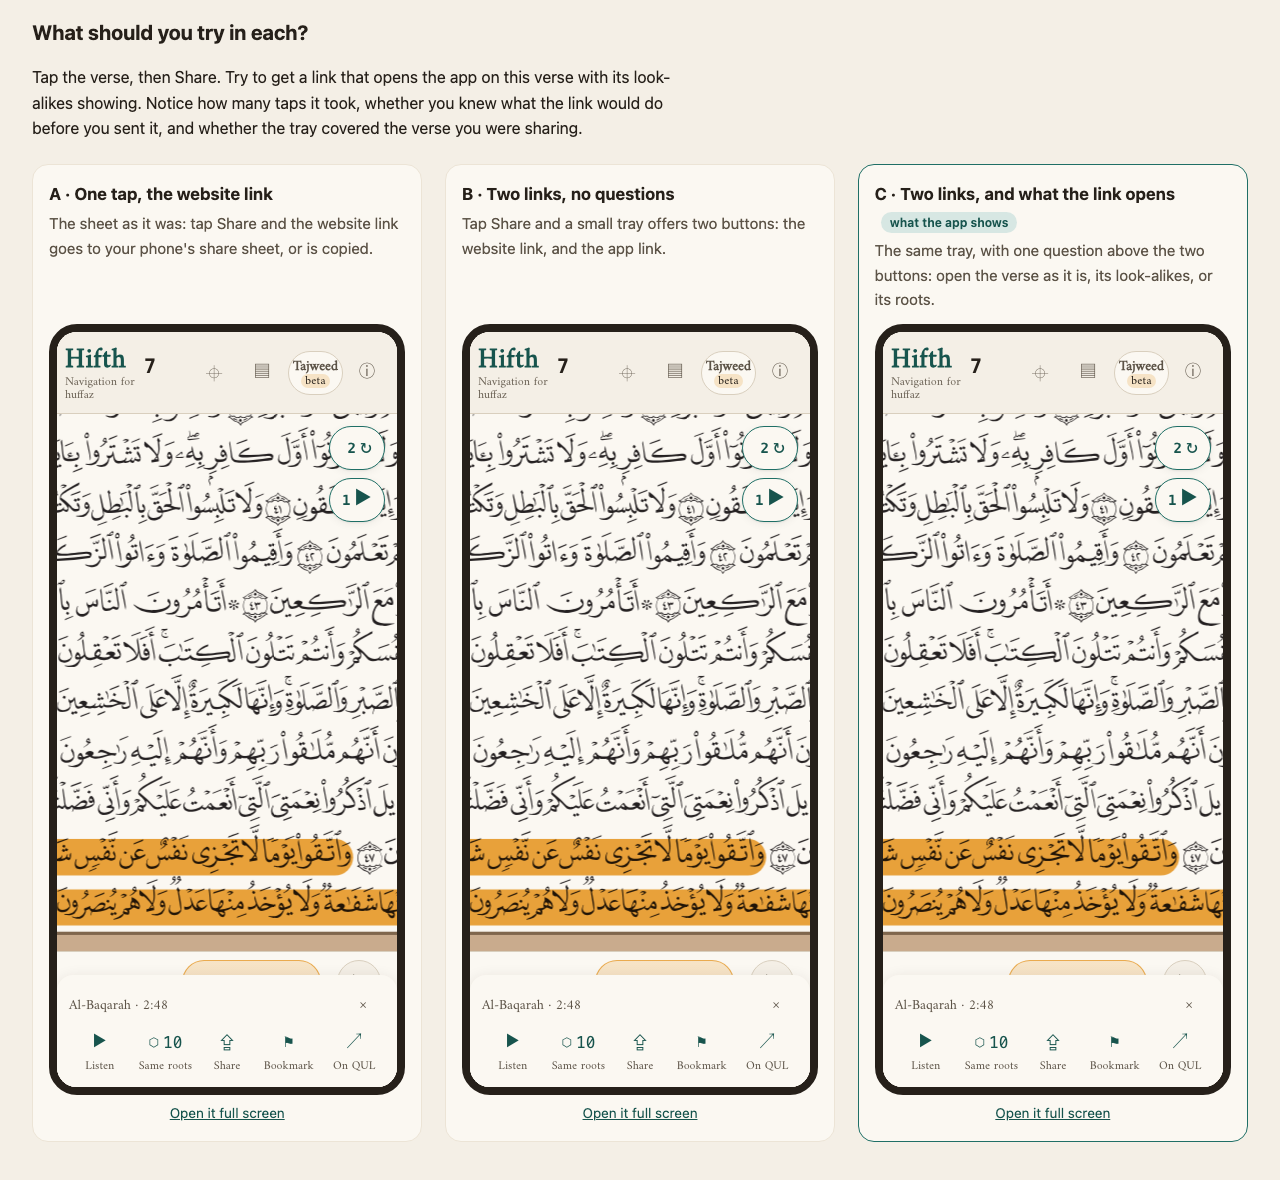
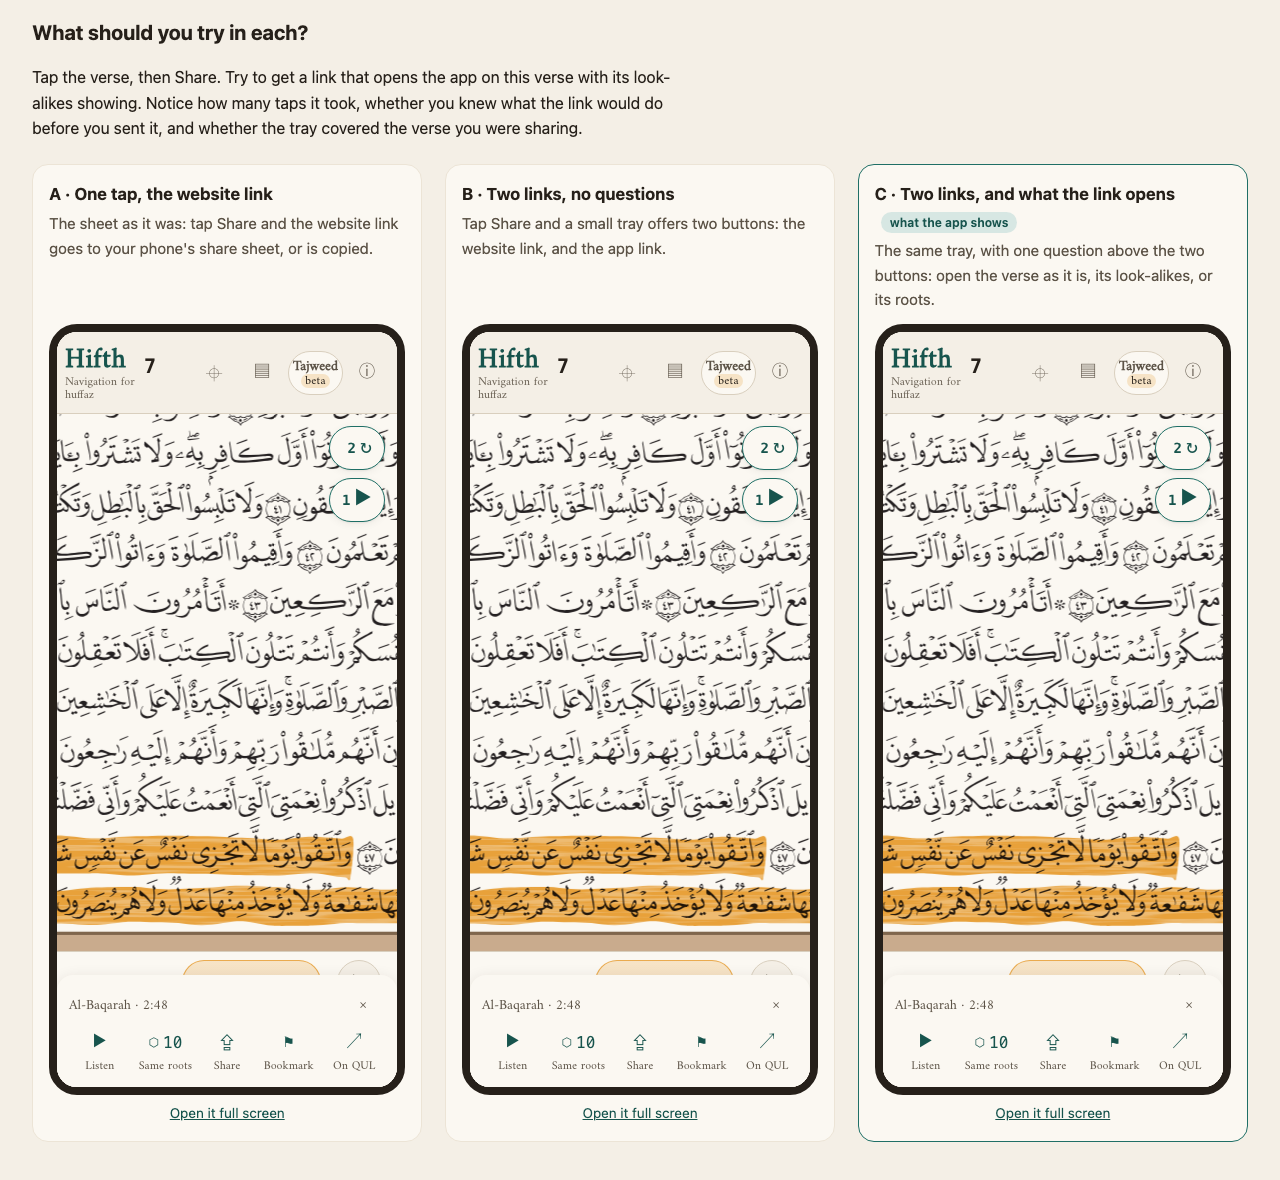
Refuse pictures of a settled decision left in the waiting note's folder; answer reviews in the right vault
When a decision is settled it drops out of the waiting note, but its pictures
stayed checked in and served until the camera ran again. The backlog check now
names any picture of a decision that is no longer open, and any file the
picture list does not name. The settled highlighter's six are removed.

Review replies were addressed to a vault named "docs", a name another project's
vault also has, so they opened the wrong one and never landed. The shortcut and
the hook's hint now use the hifth vault's own ID.

Claude-Session: https://claude.ai/code/session_0155jaTo36N9CMBWm2n5YeZ9

Changed region(s): [[0.6875, 0.7017, 0.9688, 0.7932], [0.0312, 0.7017, 0.3125, 0.7932], [0.375, 0.7017, 0.625, 0.7932]]

diff --git a/docs/backlog.md b/docs/backlog.md
@@ -1,5 +1,5 @@
 <!-- generated by scripts/build-tasks-doc.mjs — do not edit; run `make tasks-doc` -->
-<!-- tasks-hash: 518ad208a616 -->
+<!-- tasks-hash: 313946683065 -->
 
 # Backlog — everything still open
 
@@ -12,7 +12,7 @@ Each item is written on the page it belongs to and copied in here when the page 
 item goes on its owning page and gets a row in [`issues.json`](issues.json); the `issues` skill
 walks it. A commit is refused while this page is behind its sources.
 
-**Open now:** 4 decisions · 9 checks only a person can do · 43 more waiting on you · 20 waiting on whoever picks them up · 4 roadmap loops unfinished.
+**Open now:** 3 decisions · 9 checks only a person can do · 45 more waiting on you · 21 waiting on whoever picks them up · 4 roadmap loops unfinished.
 
 ## What is open, in one table?
 
@@ -21,7 +21,6 @@ walks it. A commit is refused while this page is behind its sources.
 | [May a build of the app that carries The Study Quran's commentary go to a few named outside testers through TestFlight?](#native-testflight-licence) | a decision | open |
 | [When you share a verse from a phone, what should the app ask, and which links should it hand you?](#share-sheet-builder) | a decision | open |
 | [How should the app mark the verse you are on, and how should a swept passage look different from it?](#highlight-options) | a decision | open |
-| [Could the mark look like a real highlighter: rough at the edges, and darker where two marks stack?](#highlight-texture) | a decision | open |
 | [On-device pan/zoom + highlight-toggle verdict](#check-perf-verdict-on-device) | a person, by hand | pending |
 | [VoiceOver / TalkBack gesture walkthrough](#check-screen-reader-walkthrough) | a person, by hand | pending |
 | [Read each borrowed ruler's licence, and confirm its export carries no Qur'an text](#check-qul-rulers-terms-and-text-free) | a person, by hand | pending |
@@ -61,6 +60,7 @@ walks it. A commit is refused while this page is behind its sources.
 | [The App Store is not a target](#app-store-not-a-target) | you | blocked |
 | [Does the fold read at all?](#does-the-fold-read-at-all) | you | blocked |
 | [The Mac smoke test only runs after a permission a person grants](#mac-ui-test-needs-permission) | you | blocked |
+| [Does Safari draw the mark going down, or show it whole?](#mark-reveal-in-safari) | you | blocked |
 | [The same measurement on real mid-tier Android](#perf-on-real-mid-tier-android) | you | blocked |
 | [On-device perf verdict — `perf-verdict-on-device`](#perf-verdict) | you | blocked |
 | [The page-bar's two questions are answered, and the app now does what they say — save one phone-only corner](#plan-graduate-page-bar-winners) | you | blocked |
@@ -70,6 +70,7 @@ walks it. A commit is refused while this page is behind its sources.
 | [The tajweed golden row](#plan-tajweed-golden-row) | you | blocked |
 | [Does the second mount actually hold the frame budget?](#second-mount-frame-budget) | you | blocked |
 | [The site answers on plain `http`, so the offline app silently isn't one](#site-answers-on-plain-http) | you | blocked |
+| [Does the streak filter slow a page turn on a real iPhone?](#streak-filter-iphone-speed) | you | blocked |
 | [The marks that ran out of room and still shipped as placed were never looked at, until now](#the-boundary-marks-that-ship-as-placed-were-never-read) | you | blocked |
 | [Everything gated on `perf-verdict-on-device`](#turn-cost-gated-on-the-perf-verdict) | you | blocked |
 | [A web link cannot open the app on iPad without a paid membership](#universal-links-need-paid-team) | you | blocked |
@@ -77,6 +78,7 @@ walks it. A commit is refused while this page is behind its sources.
 | [`skins.ts` still says the print's glyphs are anonymous](#skins-says-the-glyphs-are-anonymous) | whoever picks it up | confirmed |
 | [A mark id is only meaningful against an array's order](#diacritic-ids-are-an-unversioned-wire-format) | whoever picks it up | open |
 | [Are the shards worth 2.28 MB, and against what ceiling](#diacritic-shards-need-a-caller) | whoever picks it up | open |
+| [Which two colours should a passage and a run of words take?](#passage-and-run-colours) | whoever picks it up | open |
 | [What separates the look-alike pairs](#position-might-separate-the-look-alike-pairs) | whoever picks it up | open |
 | [If one of our own checks broke and started passing everything, would anything tell us?](#repo-checks-have-no-tests) | whoever picks it up | open |
 | [Could someone quietly change the checking code without us noticing?](#rigor-stack-pins-the-checking-code) | whoever picks it up | open |
@@ -99,7 +101,7 @@ walks it. A commit is refused while this page is behind its sources.
 reproduced. `open` — undecided, nothing blocking it. `blocked` — the next step is known and not
 available yet. `pending` — a check nobody has run yet.
 
-## What is waiting on a decision? — 4
+## What is waiting on a decision? — 3
 
 <a id="native-testflight-licence"></a>
 
@@ -138,20 +140,6 @@ Read [the options page](design/share-sheet-options.html) and [the record](decisi
 - **K** — The mark laid over the tajweed colours
 
 Read [the options page](design/highlight-options.html) and [the record](design/highlight-options.md) before choosing. The `decide` skill records the answer.
-
-<a id="highlight-texture"></a>
-
-### Could the mark look like a real highlighter: rough at the edges, and darker where two marks stack?
-
-- **A** — Keep today: the clean swipe, flat ink, two pens
-- **B** — A rough band, the same hand for the same verse, flat ink
-- **C** — One pen at half strength; every mark is one more pass, uncounted
-- **D** — Counted passes at 60%: a passage is one, a verse always two, a run of words three, never four
-- **E** — Streaks along the line, made by a filter
-- **F** — A mark of another colour, blended in
-- **G** — A mark of another colour cuts itself out
-
-Read [the options page](design/highlight-texture-options.html) and [the record](decisions/highlight-texture.md) before choosing. The `decide` skill records the answer.
 
 ## What can only a person check? — 9
 
@@ -385,7 +373,7 @@ Every instrument this project has built for the mark boxes answers in one curren
 14. Log each oddity in the print as an issue.
 15. Record the result.
 
-## What else is waiting on you? — 43
+## What else is waiting on you? — 45
 
 Items only the person who owns this project can settle: a judgement about how the app should
 feel, a licence somebody has to read, a device somebody has to hold.
@@ -1415,6 +1403,31 @@ Apple's UI test runner drives the Mac app through Accessibility; the terminal mu
 
 </details>
 
+<a id="mark-reveal-in-safari"></a>
+
+### Does Safari draw the mark going down, or show it whole?
+
+**blocked** · risk · waiting on a real iPhone · lives in [design/highlight-texture-options.md](design/highlight-texture-options.md#-does-safari-draw-the-mark-going-down-or-show-it-whole--blocked)
+
+The mark is revealed from right to left as it goes down, by clipping the whole group. Chromium
+and Firefox draw it; whether Safari clips a group that way was not checked on a device. If it
+does not, the mark simply appears whole, which is what a reader who asked for less motion
+already sees. What would answer it: select a verse in Safari on an iPhone and watch.
+
+---
+
+*The page is rebuilt by `scripts/build-highlight-texture-options.mjs`; its pictures are cut by
+`scripts/shoot-highlight-texture-options.mjs`; the two screenshots of the app were taken with
+`apps/web/e2e/tools/drive.mjs` against the built app. The checker's browser reproduction of the
+two engine findings is described in the table above; both researchers' own reproductions are in
+their research notes.*
+
+<details><summary>Our notes on it</summary>
+
+The wipe animates a clip on the band's group. Unchecked in Safari on a device; failing safe means the mark shows whole.
+
+</details>
+
 <a id="perf-on-real-mid-tier-android"></a>
 
 ### The same measurement on real mid-tier Android
@@ -1679,6 +1692,23 @@ Reproduced 2026-08-06 with two curl lines against the deployed site: http:// ret
 
 </details>
 
+<a id="streak-filter-iphone-speed"></a>
+
+### Does the streak filter slow a page turn on a real iPhone?
+
+**blocked** · risk · waiting on a real iPhone · lives in [design/highlight-texture-options.md](design/highlight-texture-options.md#-does-the-streak-filter-slow-a-page-turn-on-a-real-iphone--blocked)
+
+The streaks are drawn by one filter shared by every mark on the page. A laptop does not notice
+it; a phone might, on the frame a page turns. What would answer it: turn twenty pages with a
+verse and a passage marked on a real iPhone and watch for a stutter. If it stutters, the flat
+ink the app already falls back to is the fix.
+
+<details><summary>Our notes on it</summary>
+
+The page-wide streak filter has not been timed on a phone. If page turns stutter with marks on the page, turn the filter off on that device class; the flat-ink fallback already exists for the contrast settings.
+
+</details>
+
 <a id="the-boundary-marks-that-ship-as-placed-were-never-read"></a>
 
 ### The marks that ran out of room and still shipped as placed were never looked at, until now
@@ -1881,7 +1911,7 @@ A ledger candidate. The bands decide what `cold` means, and a threshold chosen b
 
 </details>
 
-## What is waiting on whoever picks it up next? — 20
+## What is waiting on whoever picks it up next? — 21
 
 Items that need reading, measuring, building or writing rather than a judgement call.
 
@@ -1950,6 +1980,24 @@ assumed — a kind it has never heard of fails it outright.
 <details><summary>Our notes on it</summary>
 
 Measured with mark-A and deliberately not spent: the mark tree would be 7.35 MB raw / 2.28 MB gz across 604 shards, weighed as the shard text build-words.mjs would actually write rather than estimated from a path count. It fits — gate:assets allows 32 MB gz for the mushaf and the corpus is at 27.87 MB — and it is still 2.28 MB nobody has asked for, which is precisely the waste gate:assets already names for a non-vendored edition: the download is paid for and unreachable. So mark-A ships nothing to apps/web/public/assets and this stays open until mark-B produces a caller. If the inspector shows a mark-granular highlight reads better than a word wash, mark-C spends the bytes; if it does not, this stays a probe and the corpus stays uncosted, which is a legitimate outcome. Two constraints on whoever does spend them: word-indexing.md ⑪ ① is the standing warning that shipping an ANSWER costs multiples of shipping the QUESTION (placement C cost 8.9x its estimate for exactly that reason), so a diacritics ceiling must be set from a build rather than from the 2.28 MB above; and gate:assets fails outright on an asset kind with no CEILINGS entry, so the gate is edited in the same commit or CI goes red.
+
+</details>
+
+<a id="passage-and-run-colours"></a>
+
+### Which two colours should a passage and a run of words take?
+
+**open** · question · lives in [design/highlight-texture-options.md](design/highlight-texture-options.md#-which-two-colours-should-a-passage-and-a-run-of-words-take--open)
+
+The owner chose a colour per meaning, blended where the marks cross (2026-09-30). The green and
+blue in the app are stand-ins from this page, and where either crosses the amber verse the
+letters fall to about 4.0 to 1, under the 4.5 to 1 floor. What would answer it: a few real
+pairs drawn on page 42 at phone size, each measured where it crosses the amber, and the owner
+picking one from the picture.
+
+<details><summary>Our notes on it</summary>
+
+Draw real colour pairs for a passage and a word run on page 42, measure each where it crosses the amber verse (floor 4.5:1; the stand-ins give about 4.0:1), and put the pick to the owner. Stand-ins are the --ink-range and --ink-run tokens.
 
 </details>
 

diff --git a/docs/waiting-on-you.md b/docs/waiting-on-you.md
@@ -1,13 +1,13 @@
 %% generated by scripts/build-waiting-doc.mjs — do not edit; run `make tasks-doc` %%
-%% waiting-hash: 696c0439f7f4 %%
+%% waiting-hash: 0c024c1c8a75 %%
 
 # What is waiting on you?
 
-**4 choices** to make, **9 checks** only a person can do, **27 questions** to answer, and **16 items** stuck until something outside the code happens. Choices come first: each one holds up work that is ready to build.
+**3 choices** to make, **9 checks** only a person can do, **27 questions** to answer, and **18 items** stuck until something outside the code happens. Choices come first: each one holds up work that is ready to build.
 
 Every item here is written somewhere else and copied in. To change one, edit it where it lives, then run `make tasks-doc`. The full text of everything open, yours or not, is in [the backlog](backlog.md). The pictures come from `make waiting-shots`.
 
-## Which choices are waiting on you? — 4
+## Which choices are waiting on you? — 3
 
 ### May a build of the app that carries The Study Quran's commentary go to a few named outside testers through TestFlight?
 
@@ -90,44 +90,6 @@ To choose: [open the options page](https://blog.bytesofpurpose.com/hifth/docs/de
 > **The approaches: how it is done and how it behaves**
 >
 > ![The approaches: how it is done and how it behaves](waiting-on-you/highlight-options-2.png)
-
-### Could the mark look like a real highlighter: rough at the edges, and darker where two marks stack?
-
-- **A** — Keep today: the clean swipe, flat ink, two pens
-- **B** — A rough band, the same hand for the same verse, flat ink
-- **C** — One pen at half strength; every mark is one more pass, uncounted
-- **D** — Counted passes at 60%: a passage is one, a verse always two, a run of words three, never four
-- **E** — Streaks along the line, made by a filter
-- **F** — A mark of another colour, blended in
-- **G** — A mark of another colour cuts itself out
-
-> [!tip] Recommended
-> D — Counted passes at 60%: a passage is one, a verse always two, a run three, never four (O3 + T2, researcher A)
-
-To choose: [open the options page](https://blog.bytesofpurpose.com/hifth/docs/design/highlight-texture-options.html) · [read the record](decisions/highlight-texture.md), then tell Claude which one.
-
-![The top of the page](waiting-on-you/highlight-texture-0.png)
-
-> [!example]- 5 more pictures from the page
-> **What does the app do today?**
->
-> ![What does the app do today?](waiting-on-you/highlight-texture-1.png)
->
-> **What shape does the pen leave?**
->
-> ![What shape does the pen leave?](waiting-on-you/highlight-texture-2.png)
->
-> **What does the ink do inside the shape?**
->
-> ![What does the ink do inside the shape?](waiting-on-you/highlight-texture-3.png)
->
-> **What happens where two marks overlap?**
->
-> ![What happens where two marks overlap?](waiting-on-you/highlight-texture-4.png)
->
-> **What does it feel like when the mark goes down?**
->
-> ![What does it feel like when the mark goes down?](waiting-on-you/highlight-texture-5.png)
 
 ## What can only you check, by hand? — 9
 
@@ -400,7 +362,7 @@ question is written on.
 - **[Should the outside library get its own command-line tool?](PLAN.md#open-follow-ups)** — Parked 2026-09-29 when the session task list was cleared before the large refactor.
 - **[Whether a trackpad pinch on a real Mac feels right](design/native-shell.md#-whether-a-trackpad-pinch-on-a-real-mac-feels-right--open)** — WebKit forwards the pinch as gesture events and the web app already handles them, so no code was written.
 
-## What is stuck until something outside the code happens? — 16
+## What is stuck until something outside the code happens? — 18
 
 A device to hold, a licence to read, a membership to buy. Each page says what the item waits on.
 
@@ -420,4 +382,6 @@ A device to hold, a licence to read, a membership to buy. Each page says what th
 - **[The Mac smoke test only runs after a permission a person grants](design/native-shell.md#-the-mac-smoke-test-only-runs-after-a-permission-a-person-grants--blocked)** — Apple's UI test runner needs the terminal to be allowed under Accessibility.
 - **[A web link cannot open the app on iPad without a paid membership](design/native-shell.md#-a-web-link-cannot-open-the-app-on-ipad-without-a-paid-membership--blocked)** — A tapped link to the public site opens Safari, not the shell.
 - **[The App Store is not a target](design/native-shell.md#-the-app-store-is-not-a-target--blocked)** — The shell carries the same GPL-derived data the website does, and the store's terms are the ones `track-b-native.md` argues a GPL binary cannot accept.
+- **[Does the streak filter slow a page turn on a real iPhone?](design/highlight-texture-options.md#-does-the-streak-filter-slow-a-page-turn-on-a-real-iphone--blocked)** — The streaks are drawn by one filter shared by every mark on the page.
+- **[Does Safari draw the mark going down, or show it whole?](design/highlight-texture-options.md#-does-safari-draw-the-mark-going-down-or-show-it-whole--blocked)** — The mark is revealed from right to left as it goes down, by clipping the whole group.
 

diff --git a/.claude/memory/obsidian-callouts-and-folds-worked.md b/.claude/memory/obsidian-callouts-and-folds-worked.md
@@ -1,0 +1,19 @@
+---
+name: obsidian-callouts-and-folds-worked
+description: Owner liked the waiting-on-you Obsidian note — tip callout for the recommendation, folded example callout for extra pictures; codified as the write-obsidian-note skill in the note-manager plugin
+metadata:
+  type: feedback
+---
+
+The owner (2026-09-30) singled out two mechanisms in docs/waiting-on-you.md as the ones they
+like: the `> [!tip] Recommended` callout that lifts the one line to act on, and the folded
+`> [!example]- 5 more pictures from the page` that keeps secondary pictures one click away.
+They asked for the tone and approach to be written up as a skill, which is now
+`/note-manager:write-obsidian-note` in the oeid plugin marketplace (plugins/note-manager/skills/write-obsidian-note/: SKILL.md, rubric.md, example.md).
+
+**Why:** short-first with the detail folded is what makes a note someone can act on, rather
+than a wall of text. It is the same idea as [[short-first-guides-mermaid]], carried into Obsidian.
+
+**How to apply:** for any note read in the docs vault, follow that skill: question headings
+with counts, a single tip callout per item, folds for pictures and steps, `%% %%` stamps
+instead of HTML comments, and open it by path, then screenshot it.

diff --git a/.claude/memory/MEMORY.md b/.claude/memory/MEMORY.md
@@ -46,3 +46,5 @@
 - [e2e serves dist; SW blocks page.route](e2e-serves-dist-and-sw-blocks-route.md) — rebuild dist before e2e; slow a shard only in a context with serviceWorkers "block"
 - [Two researchers then a checker worked](two-researchers-then-checker-worked.md) — ran 2026-09-30 for highlighter texture (#171/#172→#173); checker merges both branches, reopens sources, draws real disagreements live
 - [review-md vault and hook](review-md-vault-and-hook.md) — docs/ is an Obsidian vault with BRAT+review-md; review-md plugin installed; SessionStart hook / `make reviews` prints threads waiting on claude
+- [Obsidian callouts and folds worked](obsidian-callouts-and-folds-worked.md) — owner liked tip-callout recommendation + folded picture callouts in waiting-on-you.md; skill /note-manager:write-obsidian-note (oeid marketplace)
+- [review-md vault by ID](review-md-vault-by-id.md) — reply with `--vault hifth0docs0vault01`; "docs" also names the 3d-models vault, so replies miss

diff --git a/.claude/memory/review-md-vault-by-id.md b/.claude/memory/review-md-vault-by-id.md
@@ -1,0 +1,12 @@
+---
+name: review-md-vault-by-id
+description: review-md replies must use --vault hifth0docs0vault01 (the vault ID); "docs" also names the 3d-models vault, so --vault docs opens the wrong one and the reply never lands
+metadata:
+  type: reference
+---
+
+Obsidian knows two vaults named "docs": hifth/docs (ID `hifth0docs0vault01`) and 3d-models/docs.
+`reviews reply … --vault docs` opened the 3d-models vault on 2026-09-30 and every reply timed out
+("didn't land in 10s"). Obsidian's `vault=` accepts the ID, and with
+`--vault hifth0docs0vault01` all three replies landed. The Makefile's `reviews-all` and the
+hook's hint now use the ID. Related: [[review-md-vault-and-hook]].
